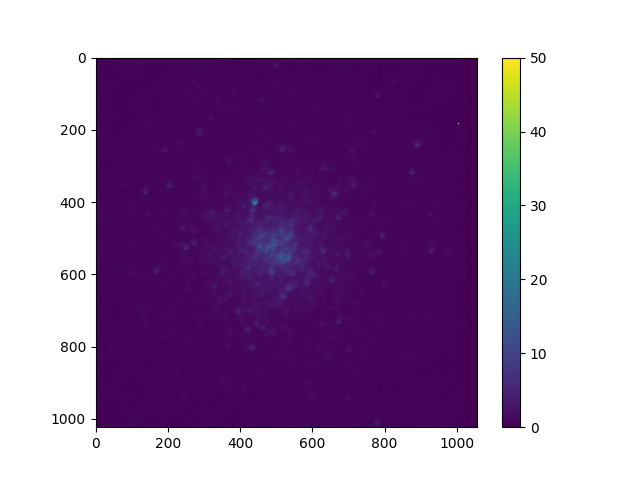
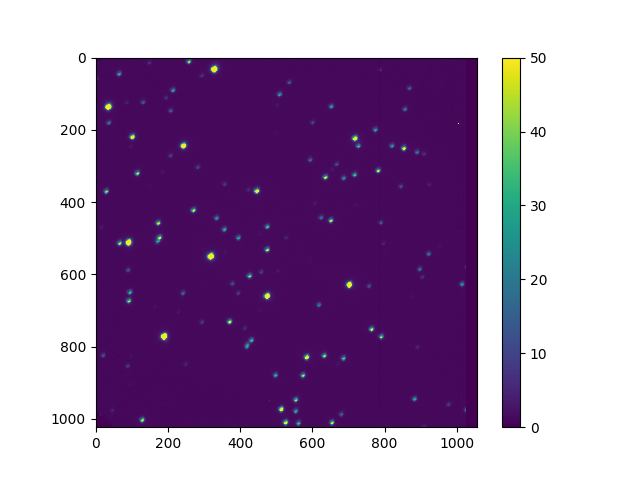
AAAAAAAAAAAAAA

diff --git a/LAB1/LAB1.py b/LAB1/LAB1.py
@@ -73,13 +73,13 @@ for i in range(0, 2):
         calibrated_science_data[i][calibrated_science_data[i] < 0] = 0
         calibrated_calibration_data[i][calibrated_calibration_data[i] < 0] = 0
 
-# plt.figure("calibrated science")
-# ax = plt.axes()
-# ax.set_facecolor("red")
-# plt.imshow(calibrated_science_data[0], interpolation='nearest', vmin=0, vmax=50)
-# plt.colorbar()
-# plt.savefig('calibrated_calibratedM53B.png')
-# plt.show()
+plt.figure("calibrated science")
+ax = plt.axes()
+ax.set_facecolor("red")
+plt.imshow(calibrated_science_data[3], interpolation='nearest', vmin=0, vmax=50)
+plt.colorbar()
+plt.savefig('calibrated_calibratedM53B.png')
+plt.show()
 
 #Making the HR Diagram
 
@@ -98,12 +98,11 @@ def bg_subtraction(data):
 
     fig, ax = plt.subplots()
     m, s = np.mean(data_sub), np.std(data_sub)
-    im = ax.imshow(data_sub, interpolation='nearest', cmap='gray',
-                    vmin=0, vmax=50)
+    im = ax.imshow(data_sub, interpolation='nearest', cmap='gray', vmin=0, vmax=50)
     
     #limit ellipse size
     min_size = 1
-    max_size = 50
+    max_size = 25
 
     for i in range(len(objects)):
         a = objects['a'][i]
@@ -118,7 +117,7 @@ def bg_subtraction(data):
             ax.add_artist(e)
     plt.show()
 
-bg_subtraction(calibrated_science_data[0])
+bg_subtraction(calibrated_science_data[3])
 
 
 def mag_atm_ext(filters, m_atm_ext):
@@ -160,7 +159,7 @@ m_atm_ext_sciB = mag_atm_ext(science_filters[0], m_atm_extB)
 m_atm_ext_sciV = mag_atm_ext(science_filters[1], m_atm_extV)
 m_atm_ext_sciR = mag_atm_ext(science_filters[2], m_atm_extR)
 
-print(m_atm_ext_sciB, m_atm_ext_sciV, m_atm_ext_sciR)
+#print(m_atm_ext_sciB, m_atm_ext_sciV, m_atm_ext_sciR)
 
 #Dust sci
 m_dust_ext_sciB = 0.092
@@ -171,7 +170,7 @@ m_dust_ext_sciR = 0.060
 m_atm_ext_caliB = mag_atm_ext(calibration_filters[0], m_atm_extB)
 m_atm_ext_caliV = mag_atm_ext(calibration_filters[1], m_atm_extV)
 m_atm_ext_caliR = mag_atm_ext(calibration_filters[2], m_atm_extR)
-print(m_atm_ext_caliB, m_atm_ext_caliV, m_atm_ext_caliR)
+#print(m_atm_ext_caliB, m_atm_ext_caliV, m_atm_ext_caliR)
 
 #Dust cali
 m_dust_ext_caliB = 0.173
@@ -193,11 +192,11 @@ m_V = -2.5 * np.log(F_caliV)
 m_R = -2.5 * np.log(F_caliR)
 
 #Zero point
-m_zpB = m_B - m_I_B
-m_zpV = m_V - m_I_V
-m_zpR = m_R - m_I_R
+m_zpB = 13.056 - m_I_B
+m_zpV = 13.327 - m_I_V
+m_zpR = 13.456 - m_I_R
 
-print((m_zpB), (m_zpV), (m_zpR))
+print(len(m_zpB), len(m_zpV), len(m_zpR))
 
 # # plt.scatter()
 # # plt.show()
